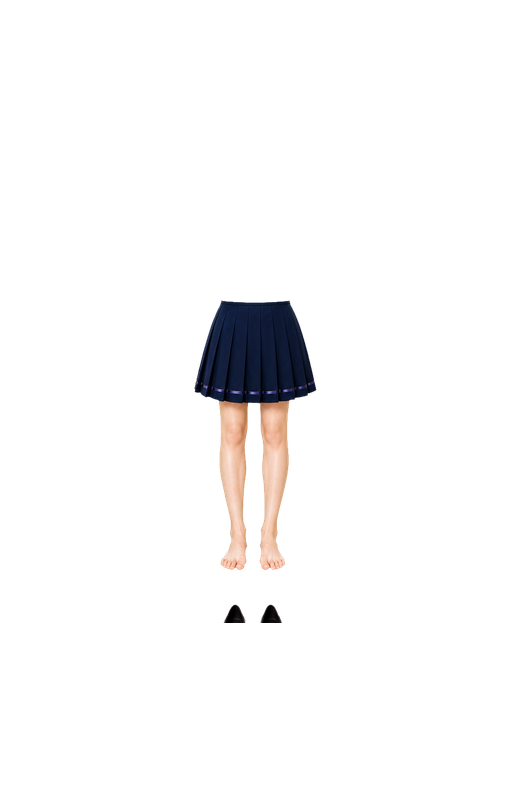
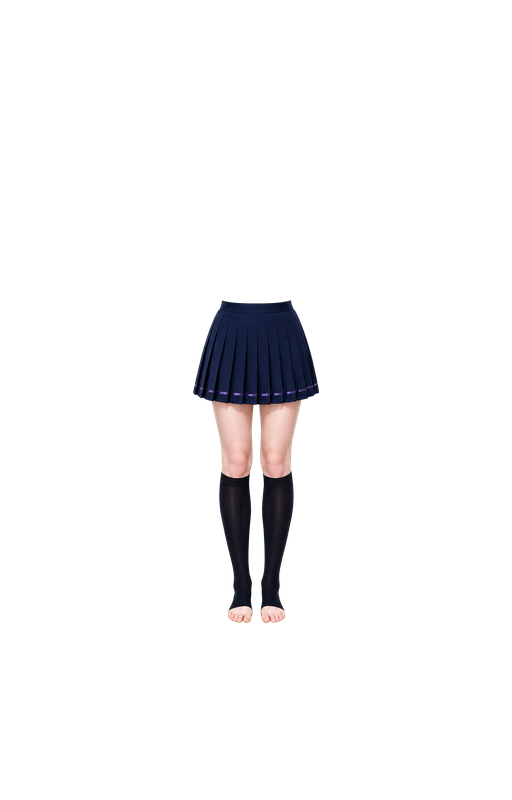
Fix sailor outfit rig and wardrobe product art

Changed region(s): [[0.375, 0.375, 0.625, 0.7812], [0.5625, 0.375, 0.5938, 0.4062]]

diff --git a/index.html b/index.html
@@ -1243,7 +1243,7 @@ function buildCatalog() {
     const modularCode = it.audience === "girl" && ["g01", "g02", "g04", "g05", "g06", "g07", "g08", "g09", "g10", "g11", "g12", "g13"].includes(it.code) ? it.code : null;
     const additionalModular = modularCode && Number(modularCode.slice(1)) >= 5;
     out.push(Object.assign({}, common, { id: "top-" + it.code, category: "top", name: it.topName, price: Math.ceil(it.price * .58), garmentPart: "top", asset: additionalModular ? MODULAR_WARDROBE_ROOT + "female-" + modularCode + "-upper-thumb.png" : "rewards/items/modular-v2/top-" + it.code + ".png", modularAsset: modularCode ? MODULAR_WARDROBE_ROOT + "female-" + modularCode + "-upper.png" : null, wearTop: it.topFit[0], wearWidth: it.topFit[1], wearHeight: it.topFit[2] }));
-    out.push(Object.assign({}, common, { id: "bottom-" + it.code, category: "bottom", name: it.bottomName, price: Math.floor(it.price * .42), garmentPart: "bottom", asset: additionalModular ? MODULAR_WARDROBE_ROOT + "female-" + modularCode + "-lower-thumb.png" : "rewards/items/modular-v2/bottom-" + it.code + ".png", modularAsset: modularCode ? MODULAR_WARDROBE_ROOT + "female-" + modularCode + "-lower.png" : null, modularBareAsset: modularCode ? MODULAR_WARDROBE_ROOT + "female-" + modularCode + "-lower-bare.png" : null, wearTop: it.bottomFit[0], wearWidth: it.bottomFit[1], wearHeight: it.bottomFit[2] }));
+    out.push(Object.assign({}, common, { id: "bottom-" + it.code, category: "bottom", name: it.bottomName, price: Math.floor(it.price * .42), garmentPart: "bottom", asset: additionalModular ? MODULAR_WARDROBE_ROOT + "female-" + modularCode + "-lower-product.png" : "rewards/items/modular-v2/bottom-" + it.code + ".png", modularAsset: modularCode ? MODULAR_WARDROBE_ROOT + "female-" + modularCode + "-lower.png" : null, modularBareAsset: modularCode ? MODULAR_WARDROBE_ROOT + "female-" + modularCode + "-lower-bare.png" : null, wearTop: it.bottomFit[0], wearWidth: it.bottomFit[1], wearHeight: it.bottomFit[2] }));
   });
   out.push({ id: "shoes-00", category: "shoes", name: "赤腳換裝底", preview: "—", color: "#9a90c8", tint: "#9a90c826", price: 0, requiredLevel: 1, unlockMode: "coin", rarity: "普通", rarityColor: "#9a90c8", collection: "BASIC", variant: 0, asset: null, audience: "system" });
   [

diff --git a/tools/rebuild_wardrobe_product_assets.py b/tools/rebuild_wardrobe_product_assets.py
@@ -1,0 +1,124 @@
+#!/usr/bin/env python3
+"""Rebuild clean shop art and the corrected G05 sailor lower-body module."""
+
+from pathlib import Path
+from collections import deque
+
+from PIL import Image
+
+
+ROOT = Path(__file__).resolve().parents[1]
+MODULES = ROOT / "rewards/wardrobe/modular-v3/modules"
+SOURCE = ROOT / "rewards/wardrobe/modular-v3/source"
+CANVAS = (512, 800)
+PRODUCT_CANVAS = (300, 240)
+
+# Bottom edge of the garment itself on the 512 x 800 rig.  These intentionally
+# stop before exposed legs, feet, hands, or shoe-row fragments.
+GARMENT_BOTTOM = {
+    "g05": 410,
+    "g06": 398,
+    "g07": 482,
+    "g08": 560,
+    "g09": 415,
+    "g10": 515,
+    "g11": 568,
+    "g12": 592,
+    "g13": 592,
+}
+
+
+def visible_crop(image: Image.Image) -> Image.Image:
+    bbox = image.getchannel("A").getbbox()
+    if bbox is None:
+        raise ValueError("asset has no visible pixels")
+    return image.crop(bbox)
+
+
+def fit(image: Image.Image, max_width: int, max_height: int) -> Image.Image:
+    scale = min(max_width / image.width, max_height / image.height)
+    return image.resize(
+        (round(image.width * scale), round(image.height * scale)),
+        Image.Resampling.LANCZOS,
+    )
+
+
+def keep_largest_component(image: Image.Image) -> Image.Image:
+    """Remove detached hands, feet, and source-atlas fragments from shop art."""
+    alpha = image.getchannel("A")
+    width, height = image.size
+    pixels = alpha.load()
+    visited = bytearray(width * height)
+    largest: list[tuple[int, int]] = []
+    for y in range(height):
+        for x in range(width):
+            pos = y * width + x
+            if visited[pos] or pixels[x, y] <= 12:
+                continue
+            visited[pos] = 1
+            queue = deque([(x, y)])
+            component: list[tuple[int, int]] = []
+            while queue:
+                cx, cy = queue.popleft()
+                component.append((cx, cy))
+                for nx in range(max(0, cx - 1), min(width, cx + 2)):
+                    for ny in range(max(0, cy - 1), min(height, cy + 2)):
+                        index = ny * width + nx
+                        if not visited[index] and pixels[nx, ny] > 12:
+                            visited[index] = 1
+                            queue.append((nx, ny))
+            if len(component) > len(largest):
+                largest = component
+    mask = Image.new("L", image.size, 0)
+    mask_pixels = mask.load()
+    for x, y in largest:
+        mask_pixels[x, y] = pixels[x, y]
+    cleaned = image.copy()
+    cleaned.putalpha(mask)
+    return cleaned
+
+
+def centered_canvas(image: Image.Image, size: tuple[int, int], top: int) -> Image.Image:
+    canvas = Image.new("RGBA", size, (0, 0, 0, 0))
+    canvas.alpha_composite(image, ((size[0] - image.width) // 2, top))
+    return canvas
+
+
+def rebuild_g05_lower() -> None:
+    source = visible_crop(
+        Image.open(SOURCE / "female-g05-lower-socks-alpha-v2.png").convert("RGBA")
+    )
+    fitted = fit(source, 235, 323)
+    module = centered_canvas(fitted, CANVAS, 300)
+    module.save(MODULES / "female-g05-lower.png", optimize=True)
+    module.save(MODULES / "female-g05-lower-bare.png", optimize=True)
+
+
+def rebuild_g05_shoes() -> None:
+    """Align the loafers with the corrected sock-and-foot lower-body module."""
+    source = Image.open(SOURCE / "female-g05-shoes-rig-v1.png").convert("RGBA")
+    visible = visible_crop(source)
+    shoes = centered_canvas(visible, CANVAS, 552)
+    shoes.save(MODULES / "female-g05-shoes.png", optimize=True)
+
+
+def rebuild_bottom_product_art() -> None:
+    for code, bottom in GARMENT_BOTTOM.items():
+        if code == "g05":
+            garment = visible_crop(
+                Image.open(SOURCE / "female-g05-skirt-product-alpha-v2.png").convert("RGBA")
+            )
+        else:
+            module = Image.open(MODULES / f"female-{code}-lower.png").convert("RGBA")
+            garment = visible_crop(
+                keep_largest_component(module.crop((0, 285, CANVAS[0], bottom)))
+            )
+        fitted = fit(garment, 230, 185)
+        product = centered_canvas(fitted, PRODUCT_CANVAS, (PRODUCT_CANVAS[1] - fitted.height) // 2)
+        product.save(MODULES / f"female-{code}-lower-product.png", optimize=True)
+
+
+if __name__ == "__main__":
+    rebuild_g05_lower()
+    rebuild_g05_shoes()
+    rebuild_bottom_product_art()
